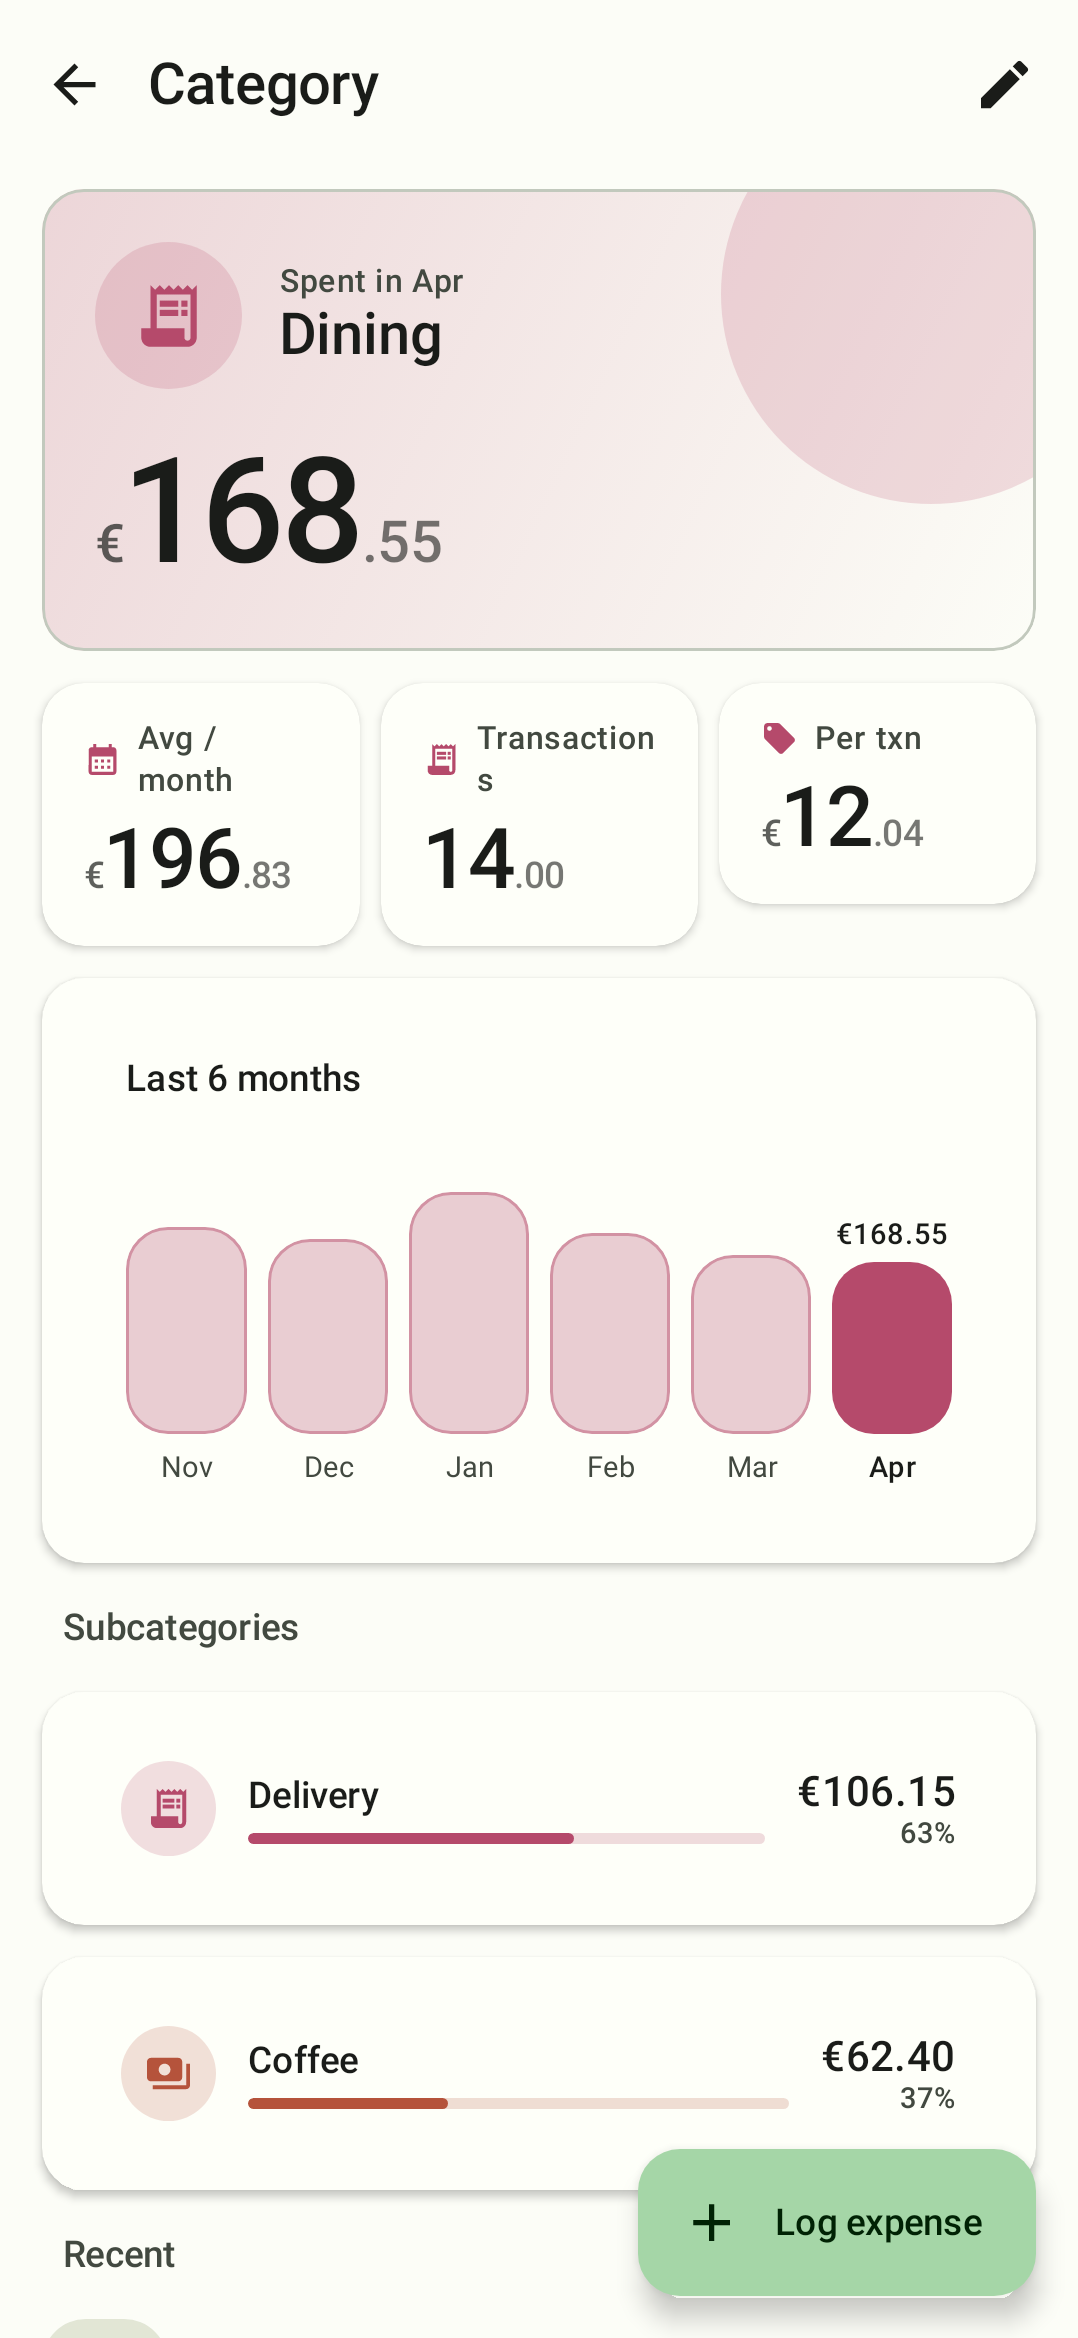
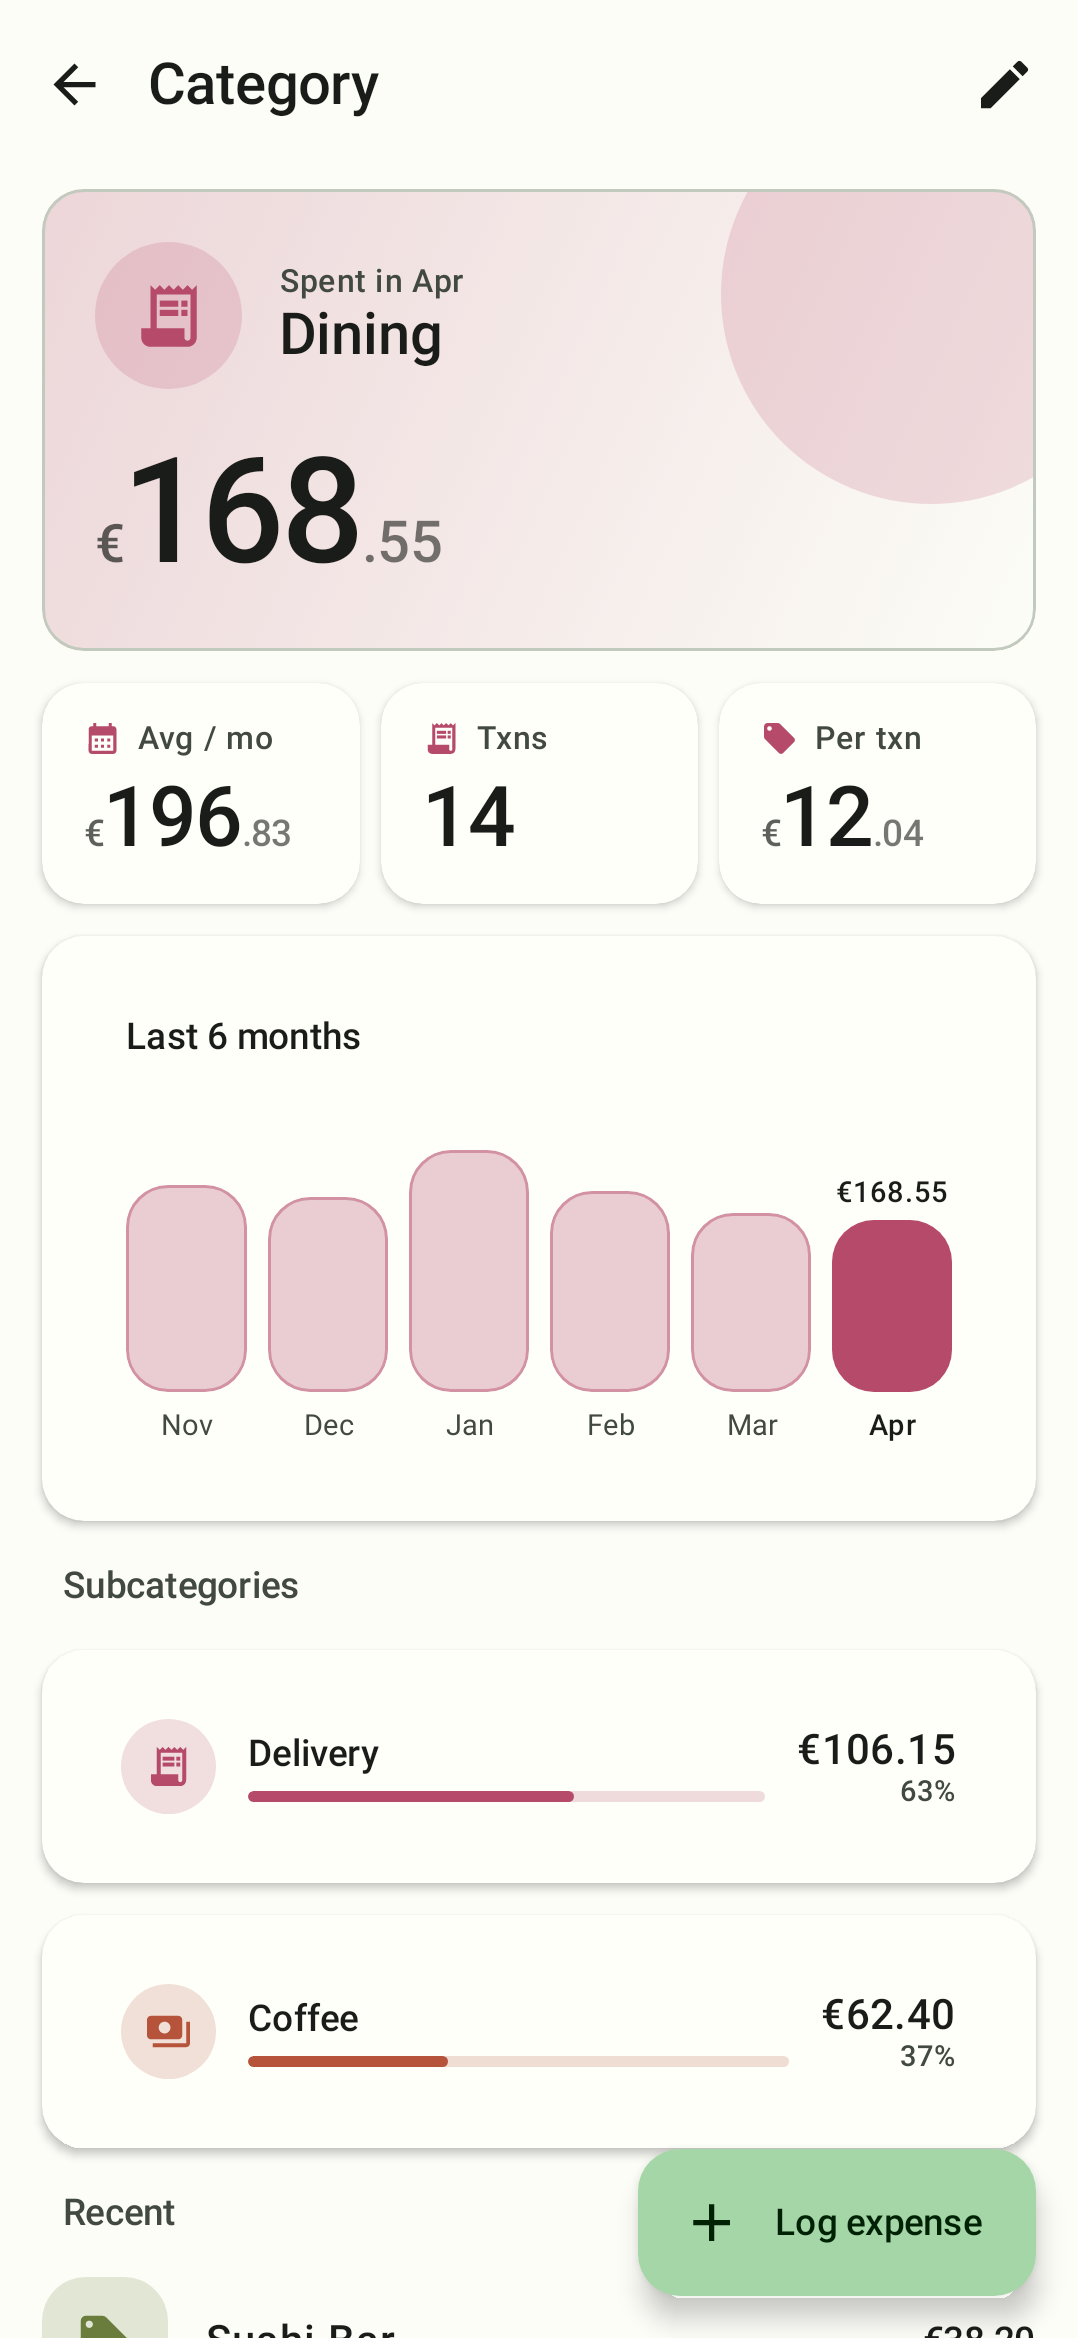
fix(navigation): stop the two panes reading as two toolbars (#454)
* fix(navigation): stop the two panes reading as two toolbars

A section split across a list and a detail pane drew two title rows of equal
weight, each with a back arrow that led nowhere: every top-level screen
hardcodes `onBack`, so beside a permanent drawer the affordance was a lie, and
tapping it ran `AppNavigator.pop()` on a one-entry stack and emptied it.

Whether back leads anywhere is a fact about the back stack, so a
`NavEntryDecorator` publishes it per entry and `SurferToolbar` reads it instead
of each screen deciding alone; the detail pane's header drops to `titleMedium`,
a step below the bar beside it.

* fix(category): re-record the details goldens after the Txns rename

#449 recorded them on a base without #452, so the committed images still show
"Transactions 14.00" where the screen now renders "Txns 14" — `main` has been
red since that merge and every PR inherits it.

Also folds the back-affordance key set into `rememberBackNavigationNavEntryDecorator`,
which leaves the navigation host one call and puts the derivation where a test
can reach it.

---------

diff --git a/navigation/src/commonMain/kotlin/com/georgeci/moneysurfer/navigation/util/BackNavigationNavEntryDecorator.kt b/navigation/src/commonMain/kotlin/com/georgeci/moneysurfer/navigation/util/BackNavigationNavEntryDecorator.kt
@@ -1,0 +1,60 @@
+package com.georgeci.moneysurfer.navigation.util
+
+import androidx.compose.runtime.Composable
+import androidx.compose.runtime.CompositionLocalProvider
+import androidx.compose.runtime.remember
+import androidx.navigation3.runtime.NavEntry
+import androidx.navigation3.runtime.NavEntryDecorator
+import com.georgeci.moneysurfer.uikit.navigation.LocalSurferCanNavigateBack
+
+/**
+ * Publishes [LocalSurferCanNavigateBack] to every rendered entry, so a screen's toolbar can drop a
+ * back arrow that leads nowhere.
+ *
+ * A decorator rather than a wrapper around the entry provider: the flag has to follow the back
+ * stack, and only the decoration runs again when the stack changes underneath an entry that stays
+ * composed — selecting the section a screen is already in resets the stack to just that screen, and
+ * its arrow has to go with the entries that were below it.
+ *
+ * Takes the [backStack] rather than the keys [backNavigationContentKeys] derives from it, so the
+ * navigation host is left with one call and nothing to hold: which entries can go back is this
+ * file's business, and the host has no test harness to cover it in.
+ *
+ * The keys are derived on every composition rather than through a `derivedStateOf`. Memoizing them
+ * would have to key on [entryProvider], which the host rebuilds each composition, so the cache
+ * would miss every time anyway — and a back stack is a handful of entries. Only the *decorator* is
+ * memoized, on the keys themselves, so an unchanged stack does not hand `NavDisplay` a new one.
+ */
+@Composable
+fun <T : Any> rememberBackNavigationNavEntryDecorator(
+    backStack: List<T>,
+    entryProvider: (T) -> NavEntry<T>,
+): NavEntryDecorator<T> {
+    val poppableContentKeys = backNavigationContentKeys(backStack, entryProvider)
+    return remember(poppableContentKeys) {
+        NavEntryDecorator { entry ->
+            CompositionLocalProvider(
+                LocalSurferCanNavigateBack provides (entry.contentKey in poppableContentKeys),
+            ) {
+                entry.Content()
+            }
+        }
+    }
+}
+
+/**
+ * The `contentKey`s of the [backStack] entries that have another entry below them — the ones a back
+ * affordance can actually pop.
+ *
+ * Keys are resolved through the same [entryProvider] the host renders with, rather than derived
+ * from the route: what a route's content key is, is that provider's decision.
+ *
+ * A route that appears on the stack twice, once at the bottom, contributes one key for both
+ * occurrences and so keeps its affordance at the bottom too. Nothing in the app pushes a route on
+ * top of itself — the sections are reached with `AppNavigator.resetTo` — and the alternative,
+ * dropping the affordance on the *upper* copy, strands the user on it.
+ */
+internal fun <T : Any> backNavigationContentKeys(
+    backStack: List<T>,
+    entryProvider: (T) -> NavEntry<T>,
+): Set<Any> = backStack.drop(1).mapTo(mutableSetOf()) { entryProvider(it).contentKey }

diff --git a/composeApp/src/jvmTest/kotlin/com/georgeci/moneysurfer/ui/BackNavigationDecoratorTest.kt b/composeApp/src/jvmTest/kotlin/com/georgeci/moneysurfer/ui/BackNavigationDecoratorTest.kt
@@ -1,0 +1,50 @@
+package com.georgeci.moneysurfer.ui
+
+import androidx.compose.runtime.remember
+import androidx.compose.ui.test.ExperimentalTestApi
+import androidx.compose.ui.test.v2.runComposeUiTest
+import androidx.navigation3.runtime.NavEntry
+import androidx.navigation3.runtime.rememberDecoratedNavEntries
+import com.georgeci.moneysurfer.navigation.util.rememberBackNavigationNavEntryDecorator
+import com.georgeci.moneysurfer.uikit.navigation.LocalSurferCanNavigateBack
+import io.kotest.core.spec.style.StringSpec
+import io.kotest.matchers.shouldBe
+
+/**
+ * That the back-affordance flag actually *reaches* a screen.
+ *
+ * `BackNavigationContentKeysTest` in `:navigation` covers which entries the flag is `true` for, and
+ * `SurferPaneScaffoldTest` covers what a toolbar does with it once it is set. Neither notices if
+ * the decorator stops being applied — drop it from `AppNavGraph`'s `entryDecorators` and every
+ * drawer section quietly gets its dead back arrow back with the whole suite still green. This is
+ * the join between the two halves.
+ *
+ * Lives in `composeApp` for the same reason `SurferPaneChromeTest` does: it is where
+ * `libs.compose.uiTest` is wired.
+ */
+@OptIn(ExperimentalTestApi::class)
+class BackNavigationDecoratorTest : StringSpec({
+
+    "the decorator gives each entry the affordance its place on the stack allows" {
+        val seen = mutableMapOf<String, Boolean>()
+        // A section the drawer reset to, with one detail opened on top of it.
+        val backStack = listOf("accounts", "account-1")
+
+        runComposeUiTest {
+            setContent {
+                val provider = remember { { key: String -> probe(key, seen) } }
+                val decorator = rememberBackNavigationNavEntryDecorator(backStack, provider)
+                val entries = remember { backStack.map(provider) }
+
+                rememberDecoratedNavEntries(entries, listOf(decorator)).forEach { it.Content() }
+            }
+            waitForIdle()
+        }
+
+        seen shouldBe mapOf("accounts" to false, "account-1" to true)
+    }
+})
+
+/** A [NavEntry] whose whole content is recording the flag it was composed with. */
+private fun probe(key: String, seen: MutableMap<String, Boolean>): NavEntry<String> =
+    NavEntry(key = key) { seen[key] = LocalSurferCanNavigateBack.current }

diff --git a/composeApp/src/jvmTest/kotlin/com/georgeci/moneysurfer/ui/SurferPaneScaffoldTest.kt b/composeApp/src/jvmTest/kotlin/com/georgeci/moneysurfer/ui/SurferPaneScaffoldTest.kt
@@ -15,6 +15,7 @@ import androidx.compose.ui.test.v2.runComposeUiTest
 import com.georgeci.moneysurfer.uikit.components.base.SurferPaneAction
 import com.georgeci.moneysurfer.uikit.components.base.SurferPaneScaffold
 import com.georgeci.moneysurfer.uikit.components.base.SurferToolbarTestTags
+import com.georgeci.moneysurfer.uikit.navigation.LocalSurferCanNavigateBack
 import com.georgeci.moneysurfer.uikit.theme.AppTheme
 import com.georgeci.moneysurfer.uikit.window.LocalSurferPane
 import com.georgeci.moneysurfer.uikit.window.SurferPane
@@ -76,12 +77,36 @@ class SurferPaneScaffoldTest : StringSpec({
             onAllNodesWithContentDescription(ADD_LABEL).fetchSemanticsNodes().size shouldBe 0
         }
     }
+
+    "a screen at the bottom of the back stack draws no back arrow" {
+        runComposeUiTest {
+            setContent { PaneScaffold(SurferPane(), canNavigateBack = false) }
+
+            onAllNodesWithTag(SurferToolbarTestTags.Back).fetchSemanticsNodes().size shouldBe 0
+            // Only the navigation affordance goes; the section's own FAB is unaffected.
+            onAllNodesWithContentDescription(ADD_LABEL).fetchSemanticsNodes().size shouldBe 1
+        }
+    }
+
+    "a list pane the drawer reset to draws no back arrow either" {
+        runComposeUiTest {
+            setContent {
+                PaneScaffold(SurferPane(role = SurferPaneRole.List), canNavigateBack = false)
+            }
+
+            onAllNodesWithTag(SurferToolbarTestTags.Back).fetchSemanticsNodes().size shouldBe 0
+            onAllNodesWithContentDescription(ADD_LABEL).fetchSemanticsNodes().size shouldBe 1
+        }
+    }
 })
 
 @Composable
-private fun PaneScaffold(pane: SurferPane) {
+private fun PaneScaffold(pane: SurferPane, canNavigateBack: Boolean = true) {
     AppTheme {
-        CompositionLocalProvider(LocalSurferPane provides pane) {
+        CompositionLocalProvider(
+            LocalSurferPane provides pane,
+            LocalSurferCanNavigateBack provides canNavigateBack,
+        ) {
             SurferPaneScaffold(
                 title = TITLE,
                 onBack = {},

diff --git a/uikit/src/commonMain/kotlin/com/georgeci/moneysurfer/uikit/components/base/SurferPaneScaffold.kt b/uikit/src/commonMain/kotlin/com/georgeci/moneysurfer/uikit/components/base/SurferPaneScaffold.kt
@@ -191,6 +191,12 @@ private fun SurferPaneHeaderAction(action: SurferPaneAction) {
  * top app bar, drawn by the list pane. This is part of the detail pane's content, so it also skips
  * the sync badge [SurferToolbar] adds.
  *
+ * And deliberately not *lettered* like one either. Carrying the bar's `titleLarge` made this read
+ * as a second top app bar sitting next to the first, so the section looked split across two
+ * toolbars even though only one of them was one. `titleMedium` puts the title a step below the bar
+ * beside it, where the first line of a pane's content belongs. The row keeps the bar's height —
+ * see [PaneHeaderMinHeight] — because that is what keeps the two panes' content aligned.
+ *
  * It still takes [TopAppBarColors] and honours the container, title, navigation-icon and
  * action-icon roles, so a screen that colours its chrome gets the same treatment whichever pane it
  * lands in — the scroll-dependent roles are the only ones with nothing to map onto. The defaults
@@ -225,7 +231,7 @@ fun SurferPaneHeader(
         }
         Text(
             text = title,
-            style = AppTheme.typography.titleLarge,
+            style = AppTheme.typography.titleMedium,
             color = colors.titleContentColor,
             maxLines = 1,
             overflow = TextOverflow.Ellipsis,
@@ -237,7 +243,11 @@ fun SurferPaneHeader(
     }
 }
 
-/** Matches the `TopAppBar` height the list pane draws, so the two panes line up. */
+/**
+ * Matches the `TopAppBar` height the list pane draws, so the two panes line up. What separates the
+ * header from the bar is its type, not its height — a shorter row would start the detail pane's
+ * content above the list pane's first row for no reason.
+ */
 private val PaneHeaderMinHeight = 64.dp
 private val TitleInset = 16.dp
 private val IconInset = 4.dp

diff --git a/navigation/src/commonTest/kotlin/com/georgeci/moneysurfer/navigation/util/BackNavigationContentKeysTest.kt b/navigation/src/commonTest/kotlin/com/georgeci/moneysurfer/navigation/util/BackNavigationContentKeysTest.kt
@@ -1,0 +1,43 @@
+package com.georgeci.moneysurfer.navigation.util
+
+import androidx.navigation3.runtime.NavEntry
+import io.kotest.core.spec.style.StringSpec
+import io.kotest.matchers.collections.shouldBeEmpty
+import io.kotest.matchers.shouldBe
+
+/**
+ * Which entries may draw a back affordance at all — the input to
+ * [rememberBackNavigationNavEntryDecorator], and thereby to every toolbar's navigation icon.
+ *
+ * The rule is only interesting at the bottom of the stack: a section the drawer reset to has
+ * nowhere to go, the same section pushed from the dashboard on a phone does.
+ */
+class BackNavigationContentKeysTest : StringSpec({
+
+    "a section the drawer reset to has nothing to pop" {
+        backNavigationContentKeys(listOf("accounts"), ::entry).shouldBeEmpty()
+    }
+
+    "the same section pushed from another one has" {
+        backNavigationContentKeys(listOf("dashboard", "accounts"), ::entry) shouldBe
+            setOf("accounts")
+    }
+
+    "the list pane of a two-pane section keeps no affordance while its detail gets one" {
+        backNavigationContentKeys(listOf("accounts", "account-1"), ::entry) shouldBe
+            setOf("account-1")
+    }
+
+    "an empty back stack has nothing to pop" {
+        backNavigationContentKeys(emptyList(), ::entry).shouldBeEmpty()
+    }
+
+    "the keys are the provider's content keys, not the routes" {
+        val keyed = { route: String -> NavEntry(key = route, contentKey = "content:$route") {} }
+
+        backNavigationContentKeys(listOf("dashboard", "accounts"), keyed) shouldBe
+            setOf("content:accounts")
+    }
+})
+
+private fun entry(key: String): NavEntry<String> = NavEntry(key = key, content = {})

diff --git a/uikit/src/commonMain/kotlin/com/georgeci/moneysurfer/uikit/components/base/SurferToolbar.kt b/uikit/src/commonMain/kotlin/com/georgeci/moneysurfer/uikit/components/base/SurferToolbar.kt
@@ -28,6 +28,7 @@ import androidx.compose.ui.platform.testTag
 import androidx.compose.ui.tooling.preview.Preview
 import androidx.compose.ui.unit.dp
 import com.georgeci.moneysurfer.uikit.icons.SurferIcons
+import com.georgeci.moneysurfer.uikit.navigation.LocalSurferCanNavigateBack
 import com.georgeci.moneysurfer.uikit.preview.SurferComponentPreview
 import com.georgeci.moneysurfer.uikit.semantics.SurferSemantics
 import com.georgeci.moneysurfer.uikit.theme.AppTheme
@@ -35,6 +36,13 @@ import moneysurfer.uikit.generated.resources.Res
 import moneysurfer.uikit.generated.resources.uikit_back
 import org.jetbrains.compose.resources.stringResource
 
+/**
+ * The app's top app bar.
+ *
+ * @param onBack drawn as the navigation icon, but only while [LocalSurferCanNavigateBack] says the
+ *   affordance leads somewhere. A screen states what back *means* for it; whether there is anything
+ *   to go back to is the navigation host's to know, and a section the drawer reset to has nothing.
+ */
 @OptIn(ExperimentalMaterial3Api::class)
 @Composable
 fun SurferToolbar(
@@ -45,11 +53,12 @@ fun SurferToolbar(
     colors: TopAppBarColors = TopAppBarDefaults.topAppBarColors(),
     actions: @Composable RowScope.() -> Unit = {},
 ) {
+    val canNavigateBack = LocalSurferCanNavigateBack.current
     SurferToolbar(
         modifier = modifier,
         navigationIcon = {
             when {
-                onBack != null -> IconButton(
+                onBack != null && canNavigateBack -> IconButton(
                     onClick = onBack,
                     modifier = Modifier.testTag(SurferToolbarTestTags.Back),
                 ) {

diff --git a/uikit/src/commonMain/kotlin/com/georgeci/moneysurfer/uikit/navigation/SurferBackNavigation.kt b/uikit/src/commonMain/kotlin/com/georgeci/moneysurfer/uikit/navigation/SurferBackNavigation.kt
@@ -1,0 +1,23 @@
+package com.georgeci.moneysurfer.uikit.navigation
+
+import androidx.compose.runtime.ProvidableCompositionLocal
+import androidx.compose.runtime.compositionLocalOf
+
+/**
+ * Whether a back affordance on the screen currently composing still leads somewhere.
+ *
+ * `false` on a destination sitting at the bottom of the back stack — every section the drawer and
+ * the rail reset to. Their toolbars used to draw a back arrow regardless, which next to a permanent
+ * drawer that already says where the user is reads as a second, redundant piece of navigation, and
+ * which had nowhere to go: `AppNavigator.pop()` pops unconditionally, so the arrow's only effect on
+ * a one-entry stack was to empty it.
+ *
+ * A screen reads this instead of reasoning about its own route, for the same reason it reads
+ * [com.georgeci.moneysurfer.uikit.window.LocalSurferPane] instead of measuring the window: whether
+ * back goes anywhere is a fact about the back stack, and only the navigation host knows it. See
+ * `rememberBackNavigationNavEntryDecorator` in `:navigation` for where the value comes from.
+ *
+ * Defaults to `true`, so everything composed outside the navigation host — previews, component
+ * tests, bottom sheets — keeps the affordance its caller asked for.
+ */
+val LocalSurferCanNavigateBack: ProvidableCompositionLocal<Boolean> = compositionLocalOf { true }

diff --git a/navigation/src/commonMain/kotlin/com/georgeci/moneysurfer/navigation/AppNavGraph.kt b/navigation/src/commonMain/kotlin/com/georgeci/moneysurfer/navigation/AppNavGraph.kt
@@ -32,6 +32,7 @@ import androidx.navigation3.runtime.rememberNavBackStack
 import androidx.navigation3.runtime.rememberSaveableStateHolderNavEntryDecorator
 import androidx.navigation3.ui.NavDisplay
 import androidx.savedstate.serialization.SavedStateConfiguration
+import com.georgeci.moneysurfer.navigation.util.rememberBackNavigationNavEntryDecorator
 import com.georgeci.moneysurfer.navigation.util.rememberViewModelStoreNavEntryDecorator
 import com.georgeci.moneysurfer.uikit.components.SurferSplash
 import com.georgeci.moneysurfer.uikit.theme.AppTheme
@@ -175,6 +176,7 @@ fun AppNavGraph(
             entryDecorators = listOf(
                 rememberSaveableStateHolderNavEntryDecorator(),
                 rememberViewModelStoreNavEntryDecorator(),
+                rememberBackNavigationNavEntryDecorator(backStack, entryProvider),
                 rememberNavigationResultNavEntryDecorator(
                     backStack = backStack,
                     entryProvider = entryProvider,
